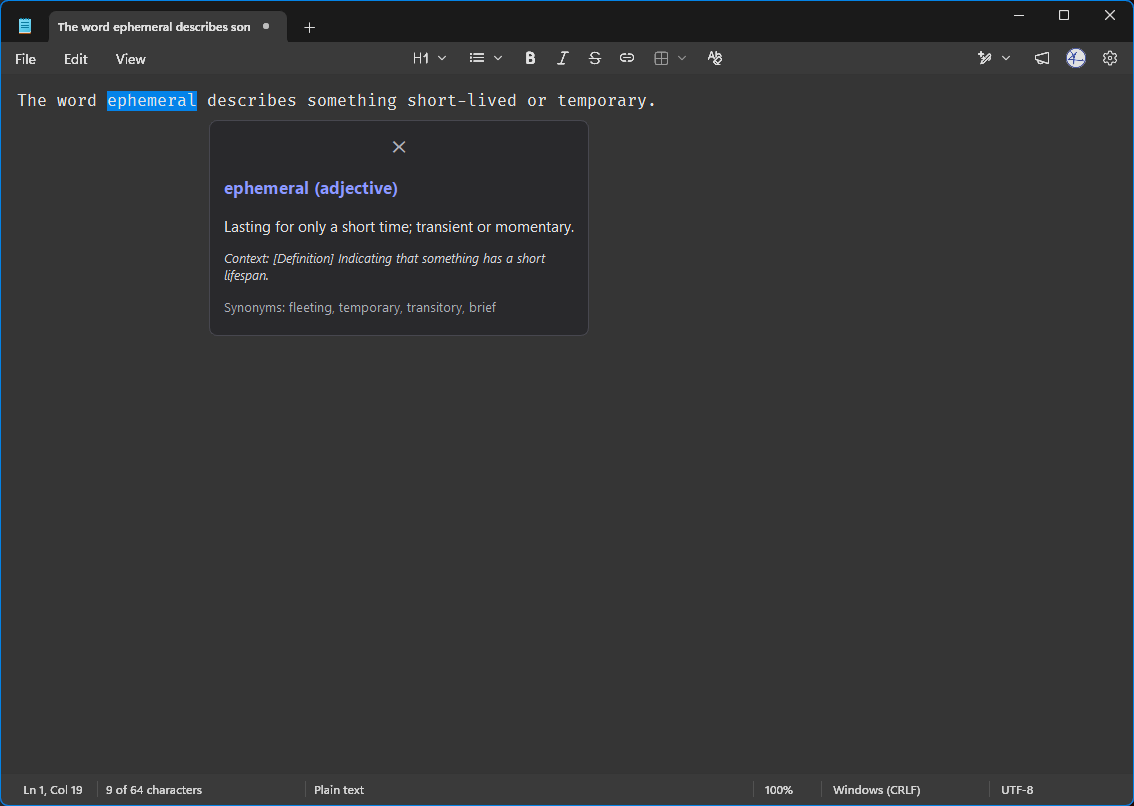
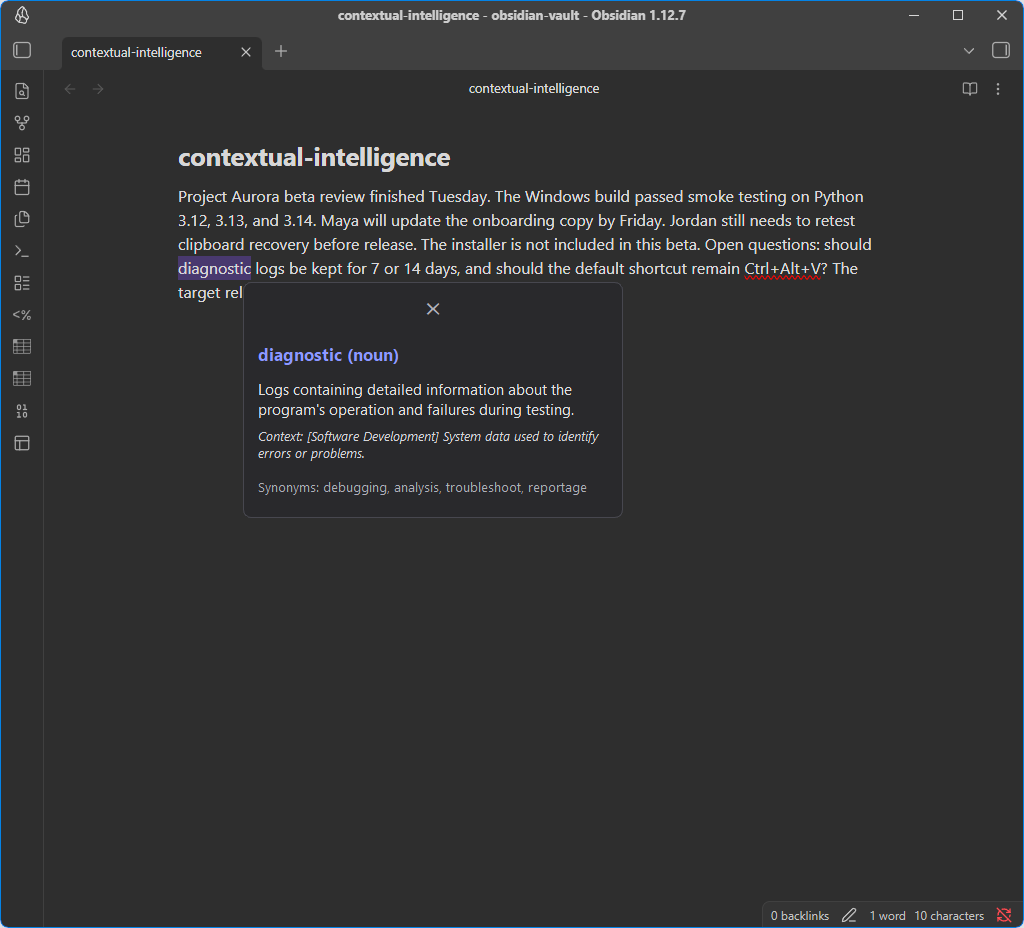
docs: refresh Contextual Lookup screenshot (#6)
* docs(demo): refresh Contextual Lookup screenshot

Update the README screenshot to match the current dark UI and the Smart Paste preset walkthrough source text.

* docs(demo): point README at the updated walkthrough

Replace the immutable inline user-attachment URL with the verified public upload matching the repository MP4.

diff --git a/README.md b/README.md
@@ -69,7 +69,7 @@ polish are still planned.
   <tr>
     <td width="50%" align="center" valign="top">
       <video
-        src="https://github.com/user-attachments/assets/e396bf25-fde4-4e89-b26a-7bc751b769aa"
+        src="https://github.com/user-attachments/assets/dce05187-94f0-44c7-ae96-d708045b38b0"
         width="100%"
         controls
       ></video>